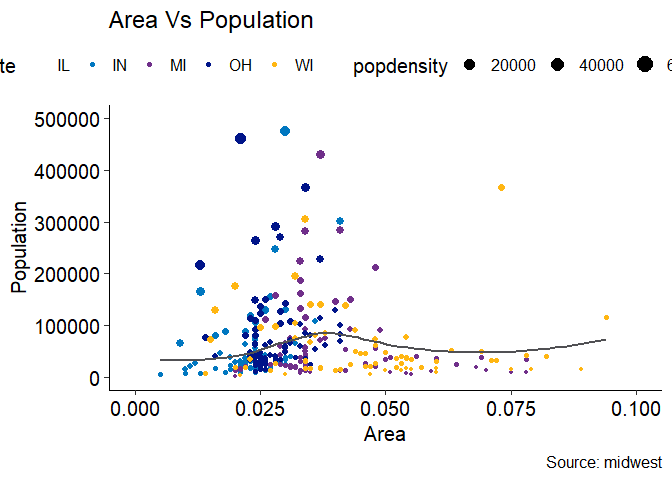
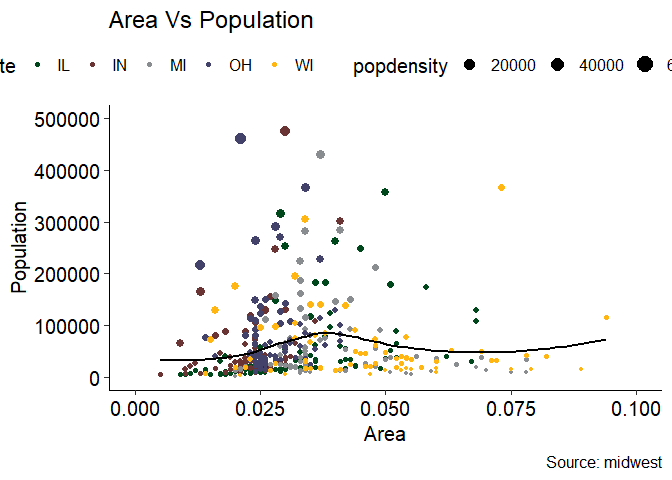
update rand_pal function, add rand_pal to examples

diff --git a/README.md b/README.md
@@ -32,7 +32,7 @@ data("midwest", package = "ggplot2")
 theme_set(theme_atsu())
 gm <- ggplot(midwest, aes(x=area, y=poptotal)) + 
      geom_point(aes(col=state, size=popdensity)) + 
-     geom_smooth(method="loess", se=F, col = atsu_cols("Cool Gray 9")) + xlim(c(0, 0.1)) + ylim(c(0, 500000)) + 
+     geom_smooth(method="loess", se=F, col = rand_pal(1)) + xlim(c(0, 0.1)) + ylim(c(0, 500000)) + 
      labs(title="Area Vs Population", y="Population", x="Area", caption="Source: midwest") +
  scale_color_atsu(palette = "main", discrete = TRUE)
 
@@ -47,7 +47,7 @@ plot(gm)
 ``` r
 gb <- ggplot(midwest, aes(x=area, y=poptotal)) + 
      geom_point(aes(col=state, size=popdensity)) + 
-     geom_smooth(method="loess", se=F, col = atsu_cols("Dark Blue")) + xlim(c(0, 0.1)) + ylim(c(0, 500000)) + 
+     geom_smooth(method="loess", se=F, col = rand_pal(1)) + xlim(c(0, 0.1)) + ylim(c(0, 500000)) + 
      labs(title="Area Vs Population", y="Population", x="Area", caption="Source: midwest") +
  scale_color_atsu(palette = "blues", discrete = TRUE)
 
@@ -62,7 +62,7 @@ plot(gb)
 ``` r
 gg <- ggplot(midwest, aes(x=area, y=poptotal)) + 
      geom_point(aes(col=state, size=popdensity)) + 
-     geom_smooth(method="loess", se=F, col = atsu_cols("Cool Gray 9")) + xlim(c(0, 0.1)) + ylim(c(0, 500000)) + 
+     geom_smooth(method="loess", se=F, col = rand_pal(1)) + xlim(c(0, 0.1)) + ylim(c(0, 500000)) + 
      labs(title="Area Vs Population", y="Population", x="Area", caption="Source: midwest") +
  scale_color_atsu(palette = "mke", discrete = TRUE)
 
